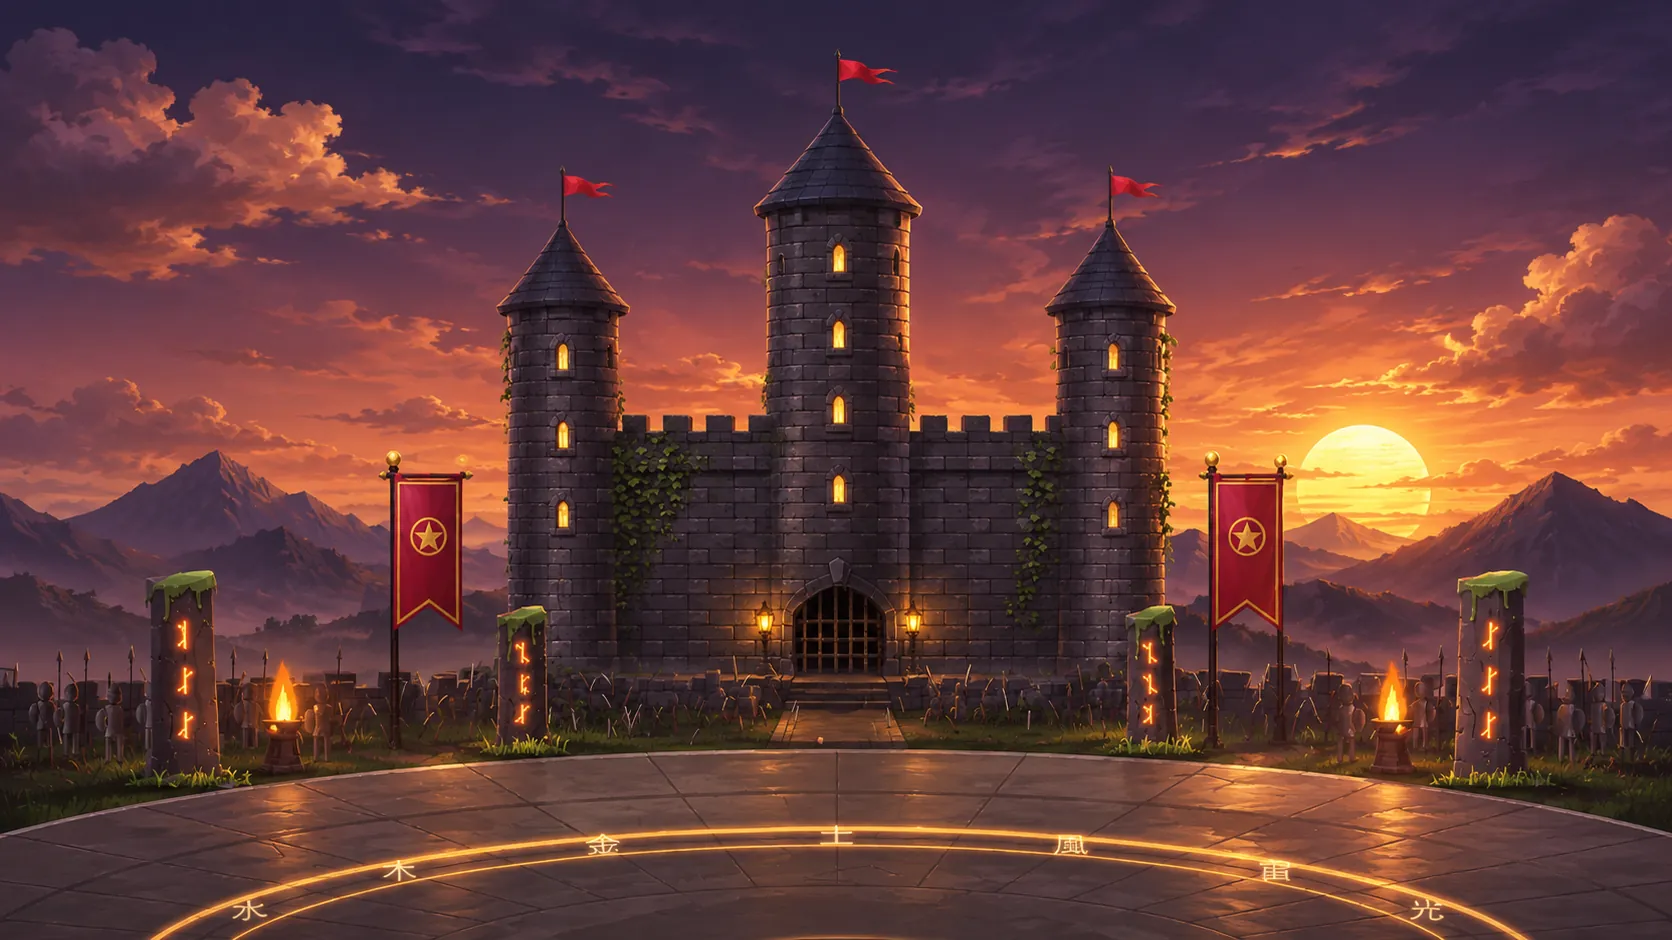
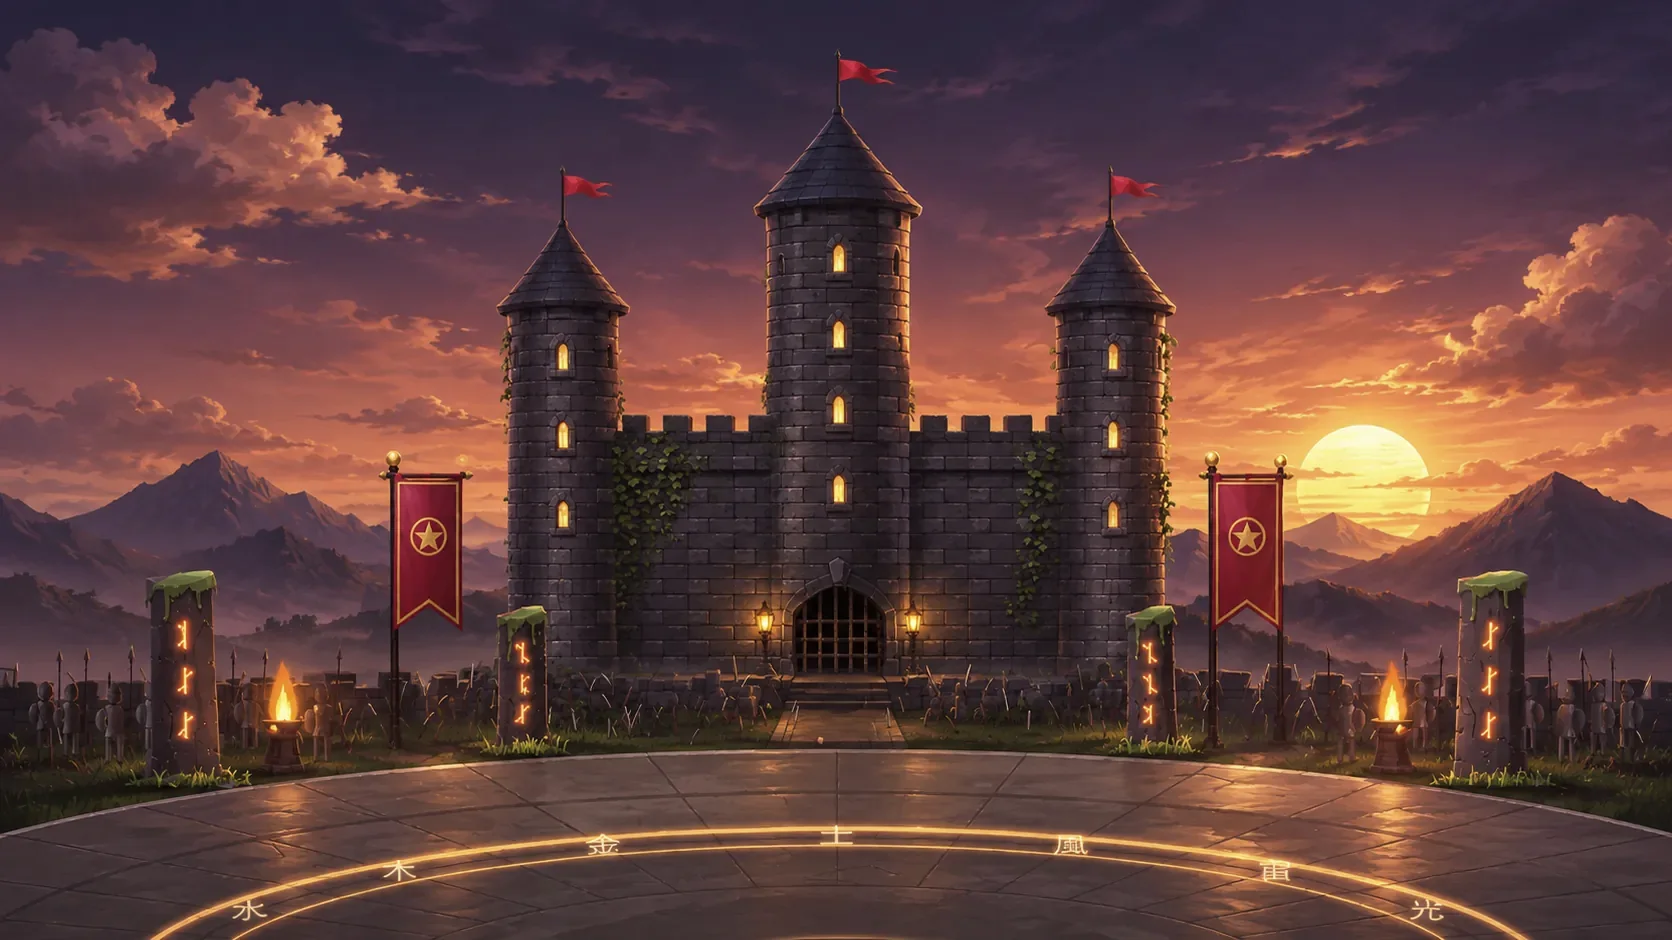
0.9.9.9.5.3: calmer pictures baked in (no live filter), pedestal ring, closer locker view
Claude-Session: https://claude.ai/code/session_01LBPjBfp7bYrYesoVSAdooM

diff --git a/public/style.css b/public/style.css
@@ -3871,7 +3871,7 @@ body:not(.mode-shown) #bg[data-time="day"]:has(> .bg-layer.art)::after { opacity
 
 /* ── 0.9.9.9.5.2: calmer pictures — a shade over them so the menus read, softer colours ─────────────────────
    (the pictures were as bright as a postcard: the cards and buttons drowned in them) */
-.art-img { filter: saturate(.8) brightness(.9); }
+/* (0.9.9.9.5.3: no filter on the picture — redrawing a filtered picture every frame was heavy; the shade over it is enough) */
 #bg:has(> .bg-layer.art)::after { opacity: 1;
   background: radial-gradient(ellipse 78% 72% at 50% 46%, rgba(10, 8, 30, .34), rgba(10, 8, 30, .5) 62%, rgba(10, 8, 30, .74) 100%),
     linear-gradient(180deg, rgba(10, 8, 30, .3), transparent 26%, transparent 70%, rgba(10, 8, 30, .36)); }
@@ -4135,8 +4135,10 @@ body.lang-switching::after { content: ""; position: fixed; inset: 0; z-index: 10
 .lk-pedestal { position: relative; width: 62%; height: 34px; margin: -26px auto 0; pointer-events: none; z-index: 2; }
 .lk-pedestal i { position: absolute; inset: 0; border-radius: 50%; }
 .lk-pedestal i:first-child { background: radial-gradient(closest-side, rgba(255, 212, 121, .45), rgba(185, 147, 255, .18) 60%, transparent); filter: blur(2px); }
-.lk-pedestal i:last-child { border: 2px dashed rgba(255, 212, 121, .5); animation: lkTurn 18s linear infinite; }
-@keyframes lkTurn { to { rotate: 360deg; } }
+.lk-pedestal i:last-child { inset: auto; left: 50%; top: 50%; width: 100%; aspect-ratio: 1; border: 2px dashed rgba(255, 212, 121, .5);
+  transform: translate(-50%, -50%) scaleY(.12) rotate(0deg); animation: lkTurn 18s linear infinite; }
+/* (a circle turning, seen from the side: squashed after the turn, so it stays a flat ring) */
+@keyframes lkTurn { to { transform: translate(-50%, -50%) scaleY(.12) rotate(360deg); } }
 .lk-info.cust-info { width: 100%; display: grid; grid-template-columns: 1fr auto; align-items: center; gap: 4px 16px; padding: 12px 18px; }
 .lk-info.cust-info h3 { grid-column: 1; margin: 0; font-size: 1.35rem; }
 .lk-info.cust-info .sub { grid-column: 1; margin: 0; font-size: .9rem; }

diff --git a/src/client/arena3d.ts b/src/client/arena3d.ts
@@ -1020,8 +1020,9 @@ export function createArena(canvas: HTMLCanvasElement, opts: { lite?: boolean; p
     if (focus > 0.001 && fo) {
       const p = fo.group.position;
       const k = focus * focus * (3 - 2 * focus);
-      camera.position.lerp(new THREE.Vector3(p.x + 1.1, 1.75 + sway, p.z + 3.4), k);
-      camera.lookAt(new THREE.Vector3(0, 0, -1).applyQuaternion(camera.quaternion).multiplyScalar(4).add(camera.position).lerp(new THREE.Vector3(p.x - 0.1, 1.45, p.z), k));
+      // (0.9.9.9.5.3: on the Hero Locker's pedestal — turning — straight on, the whole of you in view)
+      camera.position.lerp(spinning ? new THREE.Vector3(p.x + 0.15, 1.5 + sway, p.z + 3.5) : new THREE.Vector3(p.x + 1.1, 1.75 + sway, p.z + 3.4), k);
+      camera.lookAt(new THREE.Vector3(0, 0, -1).applyQuaternion(camera.quaternion).multiplyScalar(4).add(camera.position).lerp(new THREE.Vector3(p.x - 0.1, spinning ? 1.3 : 1.45, p.z), k));
     }
     if (!opts.preview && active && current && (current.opp || current.allies.length) && nowMs - myLook.sentAt > 150 && (Math.abs(myLook.yaw - myLook.sentYaw) > 0.02 || Math.abs(myLook.pitch - myLook.sentPitch) > 0.02)) {
       myLook.sentAt = nowMs; myLook.sentYaw = myLook.yaw; myLook.sentPitch = myLook.pitch;
